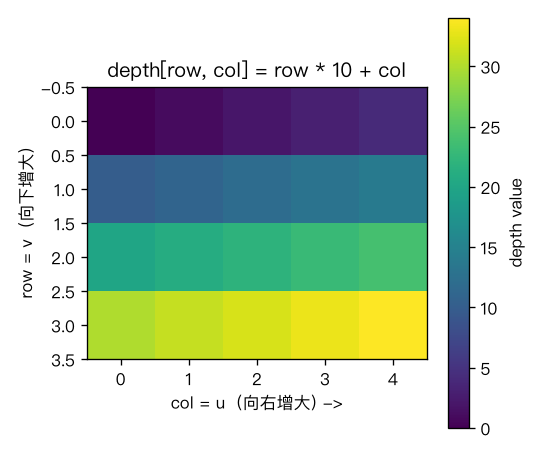
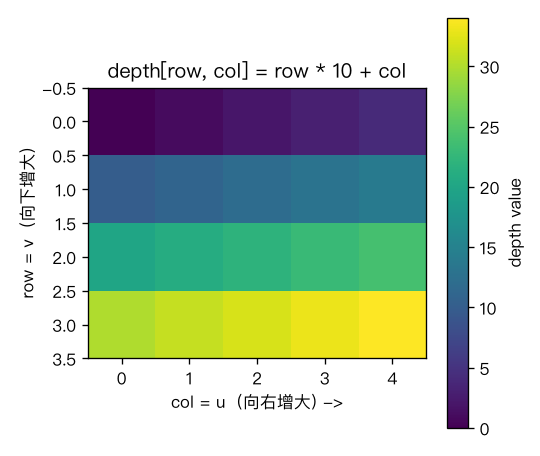
任务2/3：投影与反投影实现，含往返一致性检查与学习日志

Changed region(s): [[0.0889, 0.0307, 0.9778, 0.9518], [0.0296, 0.307, 0.0889, 0.6447]]

diff --git a/work/03_backproject.py b/work/03_backproject.py
@@ -1,0 +1,175 @@
+"""任务 3：反投影 —— 把「像素 + 深度」还原成相机坐标系中的三维点。
+
+运行方式：
+    conda activate rgbd
+    python work/03_backproject.py
+
+这是任务 2 的逆运算。完成后我们会用它和 project_points() 做往返一致性检查。
+你需要补完 backproject_pixels() 的 TODO 1~4，以及 __main__ 里的自检。
+"""
+
+import numpy as np
+
+
+def backproject_pixels(uv, depths, K):
+    """把像素坐标 + 深度反投影为相机坐标系中的三维点。
+
+    参数
+    ----------
+    uv : np.ndarray, shape (N, 2)
+        像素坐标，一列是 u（水平，向右增大），一列是 v（竖直，向下增大）。
+        可以是小数，不要求是整数。
+    depths : np.ndarray, shape (N,)
+        每个像素对应的深度值，单位米。
+        约定：这个深度是沿光轴方向的 Z（不是到相机中心的距离），
+        且 depths[i] <= 0 表示该像素没有有效测量。
+    K : np.ndarray, shape (3, 3)
+        内参矩阵 [[fx, 0, cx], [0, fy, cy], [0, 0, 1]]。
+
+    返回
+    ----------
+    points_cam : np.ndarray, shape (N, 3)
+       相机坐标系中的点，三列依次是 X, Y, Z，单位米。
+       深度无效的点，该行填 np.nan。
+    valid : np.ndarray, shape (N,), dtype bool
+        该像素的深度是否有效（depths > 0）。
+
+    公式（针孔模型的逆，只在 Z > 0 时成立）：
+        Z = depth
+        X = (u - cx) * Z / fx
+        Y = (v - cy) * Z / fy
+
+    为什么长这样：投影时 X 被除以 Z「压平」成了像素偏移，
+    反投影就要把偏移乘回去。可以理解成：
+        u - cx = fx * X / Z   =>   X = (u - cx) * Z / fx
+    """
+    uv = np.asarray(uv, dtype=np.float64)
+    depths = np.asarray(depths, dtype=np.float64)
+    K = np.asarray(K, dtype=np.float64)
+
+    # TODO 1: 从 K 取出 fx, fy, cx, cy
+    #         （和任务 2 一样的位置，这次自己回想一下，别翻回去看）
+    fx, fy, cx, cy = K[0, 0], K[1, 1], K[0, 2], K[1, 2]
+
+    # TODO 2: 从 uv 取出 u 和 v 两列，从 depths 取出 z
+    u, v = uv[:, 0], uv[:, 1]
+    z = depths
+
+    # TODO 3: 计算 valid = (z > 0)，形状 (N,)
+    valid = z > 0
+
+    # TODO 4: 先建一个形状 (N, 3) 全为 nan 的数组，再只给 valid 的行赋值。
+    #         三列依次是 X, Y, Z。
+    #         注意：用布尔索引赋值时，等号右边也要只取 valid 的部分。
+    #         另外 Z 这一列就是深度本身，原样放进去即可。
+    points_cam = np.full((uv.shape[0], 3), np.nan)
+    points_cam[valid] = np.column_stack(
+        [(u[valid] - cx) * z[valid] / fx, (v[valid] - cy) * z[valid] / fy, z[valid]]
+    )
+    return points_cam, valid
+    # raise NotImplementedError("TODO 1~4 还没完成")
+
+
+if __name__ == "__main__":
+    K = np.array(
+        [
+            [500.0, 0.0, 320.0],
+            [0.0, 500.0, 240.0],
+            [0.0, 0.0, 1.0],
+        ]
+    )
+
+    # ---- 自检 1：手算三个像素 ----
+    # TODO: 先手算，把结果写在下面注释里，再跑代码对答案。
+    #   像素 P1 = (370, 215)，深度 2.0
+    #       X = (370 - 320) * 2.0 / 500 = 0.2
+    #       Y = (215 - 240) * 2.0 / 500 = -0.1
+    #       Z = 2.0
+    #   像素 P2 = (320, 240)，深度 2.0   <- 主点上的像素，会还原成什么？
+    #       X = (320 - 320) * 2.0 / 500 = 0.0
+    #       Y = (240 - 240) * 2.0 / 500 = 0.0
+    #       Z = 2.0
+    #   也就是原点
+    #   像素 P3 = (370, 215)，深度 0.0   <- 无效深度，应该得到什么？
+    #       X = nan
+    #       Y = nan
+    #       Z = nan
+    uv = np.array(
+        [
+            [370.0, 215.0],
+            [320.0, 240.0],
+            [370.0, 215.0],
+        ]
+    )
+    depths = np.array([2.0, 2.0, 0.0])
+
+    points_cam, valid = backproject_pixels(uv, depths, K)
+    # TODO: 打印 points_cam.shape、points_cam、valid，逐条核对上面三个手算结果
+    print("points_cam.shape:", points_cam.shape)
+    print("points_cam:\n", points_cam)
+    print("valid:", valid)
+    # ---- 自检 2：往返一致性（本任务的重点）----
+    # 思路：拿一批三维点 -> 投影成像素 -> 再反投影回三维点 ->
+    #       看能不能回到原来的位置。这是阶段 4 一致性检查的雏形。
+    #
+    # 下面这段是样板代码：文件名以数字开头，不能用 import 语句直接导入，
+    # 所以用 importlib 按文件路径加载。这段可以直接抄，不用自己研究。
+    import importlib.util
+    from pathlib import Path
+
+    _here = Path(__file__).resolve().parent  # .../work
+    _spec = importlib.util.spec_from_file_location(
+        "project_points_module", _here / "02_project_points.py"
+    )
+    _mod = importlib.util.module_from_spec(_spec)
+    _spec.loader.exec_module(_mod)
+    project_points = _mod.project_points
+    # 注意：如果任务 2 的 project_points 抛了 NotImplementedError，
+    # 这里就会直接报错 —— 那说明需要先把任务 2 的 TODO 补完。
+    #
+    # TODO: 构造一组随机的有效三维点（比如 100 个，X/Y 在 -0.5~0.5，Z 在 1~3），
+    #       依次做：
+    #         uv2, valid2 = project_points(points, K)
+    #         points_back, valid_back = backproject_pixels(uv2, points[:, 2], K)
+    #       然后打印 points 和 points_back 的最大绝对误差。
+    #       预期：应该在 1e-12 量级（浮点误差），而不是 0.1 这种量级。
+    #       如果不是，先别改代码，想一想哪一步可能出了问题。
+    np.random.seed(42)
+    N = 100
+    points = np.random.uniform(-0.5, 0.5, size=(N, 2))
+    points_z = np.random.uniform(1.0, 3.0, size=(N, 1))
+    points = np.hstack([points, points_z])
+    uv2, valid2 = project_points(points, K)
+    points_back, valid_back = backproject_pixels(uv2, points[:, 2], K)
+    # 这里刻意不用 np.nanmax：nanmax 会「忽略」nan，
+    # 万一有反投影失败的行，误差看起来依然很小，问题会被悄悄吞掉。
+    # 先断言这批点全部有效，再用普通 max()——nan 一旦出现就会立刻暴露。
+    assert valid2.all(), "投影阶段出现无效点，先查这一批输入"
+    assert valid_back.all(), "反投影阶段出现无效点，先查两个函数的搭配"
+    max_abs_error = np.abs(points - points_back).max()
+    print("max_abs_error:", max_abs_error)
+    print("  (1e-15 量级 = 浮点精度；若是 0.1 这种量级，说明某一步公式有问题)")
+
+    # ---- 自检 3：量化「一个像素的误差值多少米」----
+    # TODO: 取像素 P1 = (370, 215)，深度 2.0，先算出 X0。
+    #       再把 u 加 0.5（半个像素）得到 X1，打印 |X1 - X0|。
+    #       然后对深度 0.5 和 5.0 重复一遍。
+    #       问题：深度越大，同样的半个像素误差对应的真实距离误差是变大还是变小？为什么？
+    #    预期：深度越大，误差越大。因为投影时 X 被除以 Z 压平了，反投影时要乘回去。
+    uv1 = np.array([[370.0, 215.0]])
+    depths1 = np.array([2.0])
+    points1, _ = backproject_pixels(uv1, depths1, K)
+    uv1_half_pixel = np.array([[370.5, 215.0]])
+    points1_half_pixel, _ = backproject_pixels(uv1_half_pixel, depths1, K)
+    error1 = np.abs(points1_half_pixel - points1)
+    print("Depth 2.0, half-pixel error in meters:", error1)
+    depths2 = np.array([0.5])
+    points2, _ = backproject_pixels(uv1, depths2, K)
+    points2_half_pixel, _ = backproject_pixels(uv1_half_pixel, depths2, K)
+    error2 = np.abs(points2_half_pixel - points2)
+    print("Depth 0.5, half-pixel error in meters:", error2)
+    depths3 = np.array([5.0])
+    points3, _ = backproject_pixels(uv1, depths3, K)
+    points3_half_pixel, _ = backproject_pixels(uv1_half_pixel, depths3, K)
+    error3 = np.abs(points3_half_pixel - points3)
+    print("Depth 5.0, half-pixel error in meters:", error3)

diff --git a/work/02_project_points.py b/work/02_project_points.py
@@ -1,0 +1,110 @@
+"""任务 2：把相机坐标系中的三维点投影成像素坐标。
+
+运行方式：
+    conda activate rgbd
+    python work/02_project_points.py
+
+你需要补完 project_points() 的函数体（TODO 1~5），以及文件末尾 __main__ 里的自检。
+"""
+
+import numpy as np
+
+
+def project_points(points_cam, K):
+    """把相机坐标系中的三维点投影为像素坐标。
+
+    参数
+    ----------
+    points_cam : np.ndarray, shape (N, 3), dtype float64
+        相机坐标系中的点，三列依次是 X, Y, Z，单位米。
+        坐标系约定：X 向右、Y 向下、Z 沿光轴向前。
+    K : np.ndarray, shape (3, 3), dtype float64
+        内参矩阵：
+            [[fx,  0, cx],
+             [ 0, fy, cy],
+             [ 0,  0,  1]]
+
+    返回
+    ----------
+    uv : np.ndarray, shape (N, 2), dtype float64
+        每个点的投影像素坐标 (u, v)。
+        对 Z <= 0 的无效点，该行填 np.nan。
+    valid : np.ndarray, shape (N,), dtype bool
+        每个点是否有效（即 Z > 0）。
+
+    公式（针孔模型，只在 Z > 0 时成立）：
+        u = fx * X / Z + cx
+        v = fy * Y / Z + cy
+    """
+    points_cam = np.asarray(points_cam, dtype=np.float64)
+    K = np.asarray(K, dtype=np.float64)
+
+    # TODO 1: 从 K 里取出 fx, fy, cx, cy
+    #         提示：K[0, 0] 是 fx，K[1, 1] 是 fy，K[0, 2] 是 cx，K[1, 2] 是 cy
+    #         如果你发现自己写成了 K[2, 0] 之类，回头看看内参矩阵长什么样
+    fx, fy, cx, cy = K[0, 0], K[1, 1], K[0, 2], K[1, 2]
+
+    # TODO 2: 从 points_cam 里取出 X, Y, Z 三列
+    #         这三列分别在 points_cam 的哪一列？（提示：第 0 列、第 1 列、第 2 列）
+    X, Y, Z = points_cam[:, 0], points_cam[:, 1], points_cam[:, 2]
+
+    # TODO 3: 计算 valid = (Z > 0)，形状 (N,)
+    valid = Z > 0
+
+    # TODO 4: 只对 valid 的点算 u 和 v。
+    #         要求：先算 valid 再做除法，这样不会出现除零的 RuntimeWarning。
+    #         思路：先建一个全为 nan 的 uv 数组（形状 (N, 2)），
+    #              再用 valid 做布尔索引，只给有效行赋值。
+    #         注意：用布尔索引时，等号右边也要只取 valid 的部分，形状才能对上。
+    uv = np.full((points_cam.shape[0], 2), np.nan)
+    uv[valid] = np.column_stack(
+        [fx * X[valid] / Z[valid] + cx, fy * Y[valid] / Z[valid] + cy]
+    )
+
+    # TODO 5: 返回 (uv, valid)
+    return uv, valid
+    # raise NotImplementedError("TODO 1~5 还没完成")
+
+
+if __name__ == "__main__":
+    # 内参：fx = fy = 500，主点 (320, 240)，对应 640x480 的图像
+    K = np.array(
+        [
+            [500.0, 0.0, 320.0],
+            [0.0, 500.0, 240.0],
+            [0.0, 0.0, 1.0],
+        ]
+    )
+
+    # TODO: 先自己手算下面四个点，把结果写在注释里，再跑代码对答案。
+    #   A = ( 0.2, -0.1, 2.0)   <- 有数值结果，必须手算
+    # u = 500 * 0.2 / 2.0 + 320 = 370
+    # v = 500 * -0.1 / 2.0 + 240 = 215
+    #   B = ( 0.0,  0.0, 1.0)   <- 应该落在主点上
+    # u = 500 * 0.0 / 1.0 + 320 = 320
+    # v = 500 * 0.0 / 1.0 + 240 = 240
+    #   C = ( 0.0,  0.0, -1.0)  <- 想想为什么不能投影
+    # C点在光心后面
+    #   D = ( 0.1,  0.05, 0.0)  <- 想想这里会发生什么
+    # D点在光心上，Z=0，除零
+    points = np.array(
+        [
+            [0.2, -0.1, 2.0],
+            [0.0, 0.0, 1.0],
+            [0.0, 0.0, -1.0],
+            [0.1, 0.05, 0.0],
+        ]
+    )
+
+    uv, valid = project_points(points, K)
+
+    # TODO: 打印 uv.shape、uv、valid，然后逐条核对：
+    #   1) uv.shape 必须是 (4, 2)，valid.shape 必须是 (4,)
+    #   2) B 的投影必须是 (320, 240)
+    #   3) A 的 u 应该 > 320（X 为正），v 应该 < 240（Y 为负）—— 先预测再验证
+    #   4) C、D 的 valid 必须是 False，对应 uv 行必须是 nan
+    #   5) 运行过程不应出现 RuntimeWarning: divide by zero
+    print("uv.shape:", uv.shape)
+    print("uv:\n", uv)
+    print("valid.shape:", valid.shape)
+    print("valid:", valid)

diff --git a/notes/learning-log.md b/notes/learning-log.md
@@ -100,3 +100,102 @@
 
 - Open3D 的离屏渲染（不弹窗截图）尚未测试，阶段 3 需要时再验
 - 真实 RGB-D 数据尚未下载，阶段 2 处理
+
+---
+
+## 2026-10-07 · 任务 2：投影 project_points()
+
+### 我亲手写的
+
+- `work/02_project_points.py` 的 `project_points()` 函数体（TODO 1~5 全部完成）
+- 手算 A、B 两点，并判断 C、D 的处理方式
+
+### 已验证（实测输出）
+
+- `uv.shape == (4, 2)`、`valid.shape == (4,)`、`valid.dtype == bool`
+- 输出：`[[370. 215.] [320. 240.] [nan nan] [nan nan]]`，`valid = [True True False False]`
+- 用 `-W error::RuntimeWarning` 运行，无除零警告 —— 说明「先算 valid、再做除法」的顺序是对的
+- 手算 A 与代码一致：u = 500*0.2/2.0 + 320 = 370，v = 500*(-0.1)/2.0 + 240 = 215
+- 比例检查：(u-cx)/(v-cy) = -2.0，与 X/Y = 0.2/-0.1 = -2.0 一致
+
+### 已能解释
+
+- 投影公式 u = fx*X/Z + cx、v = fy*Y/Z + cy 的由来（相似三角形），以及每个符号的单位
+- 为什么必须先判断 `valid = Z > 0` 再做除法（避免除零警告，同时排除光心后方的点）
+- 光轴上的点无论远近都投影到主点 —— 这是单目无法从单个像素判断距离的根源
+
+### 反馈中纠正的两点
+
+1. 无效条件不是 `Z == 0`，而是 `Z <= 0`。光心后方的点（Z < 0）同样无效，
+   而且它们照公式算出来的像素值在数值上"看起来很正经"，不会报错 —— 更容易悄悄出错。
+   另外 z=0 那个平面是过光心、垂直于光轴的平面（光心平面），
+   光轴本身是一条线，不存在"光轴平面"这个说法。
+2. 问「Z = 0.001 时 u、v 的量级」时答了 1e3，实际是 1e5 量级。
+   实测量级（fx=500, X=0.2）：Z=2.0 -> 1e2，Z=0.01 -> 1e4，Z=0.001 -> 1e5。
+   量级估算方法是先写 u - cx = fx * X / Z，再把数代进去。
+   "非常敏感"的定性结论是对的：Z 变化 1% 时，u 在 Z=0.001 处会移动约 990 像素。
+
+### 仍未自己验证
+
+- Z = 0.001 的具体量级（导师代算：100320），建议自己再手算一遍确认
+- 任务 3 的往返一致性检查（下一步做）
+
+### 下一步最小任务
+
+任务 3：实现 `backproject_pixels()`，并做「投影 -> 反投影」往返一致性检查
+
+---
+
+## 2026-10-07 · 任务 3：反投影 backproject_pixels() 与往返一致性
+
+### 我亲手写的
+
+- `work/03_backproject.py` 的 `backproject_pixels()`（TODO 1~4）
+- 三个像素的手算：P1 (370,215,d=2.0) -> (0.2,-0.1,2.0)；P2 主点 -> (0,0,2.0)；P3 d=0 -> nan
+- 自检 2 的 100 点往返检查、自检 3 的三个深度对比
+
+### 遇到并解决的报错
+
+`TypeError: cannot unpack non-iterable NoneType object`（第 106 行）
+
+- 原因：函数算完了 `points_cam` 和 `valid`，但末尾没有 `return`，函数默认返回 None
+- 骨架的 TODO 只写到「填数组」，没把 return 单列一步 —— 这是导师出题时的疏漏
+- 修复：在函数末尾补 `return points_cam, valid`
+- 排查经验：看到 `cannot unpack non-iterable NoneType object`，
+  基本可以直接定位为「右边的函数忘了 return」
+
+### 已验证（实测输出）
+
+- `points_cam.shape == (3, 3)`，`valid == [True, True, False]`
+- P2 主点还原成 `(0., 0., 2.)` —— X、Y 精确为 0
+- 往返一致性误差 `1.665e-16`（浮点精度量级），说明投影与反投影互逆
+- 加 `-W error::RuntimeWarning` 运行无任何除零警告
+- 半个像素对应的真实距离随深度线性增长：
+
+| 深度 | 半个像素 = 多少米 |
+|---|---|
+| 0.5 m | 0.0005 m |
+| 2.0 m | 0.002 m |
+| 5.0 m | 0.005 m |
+
+规律：`dx = 0.5 * Z / fx = Z / 1000`，即误差与深度成正比。
+
+### 学到的一个具体检查习惯
+
+`np.nanmax` 会「忽略」nan，用它检查误差会把失败的点悄悄跳过。
+实测对比（2 个点里 1 个无效）：
+- 旧写法 `np.nanmax(...)` 打印误差 0.0，看起来完美，实际只算了 1 个点
+- 新写法 `assert valid.all()` + 普通 `max()` 直接抛 AssertionError 拦住
+
+结论：**先确认数据有效，再算指标**。这个习惯在阶段 3 处理整图时很关键
+（整图里无效像素本来就多，检查逻辑不能也放任 nan）。
+
+### 仍未自己验证
+
+- 反投影公式为什么没有除法（只有乘法）—— 待自己复述一遍
+- 「往返检查通过能否证明深度单位和内参正确」—— 阶段 4 专门讨论
+
+### 下一步最小任务
+
+阶段 2：确认 Open3D 官方 SampleRedwoodRGBDImages 是否适合本机，下载并检查
+真实 RGB-D 数据的格式、单位、配准关系。
